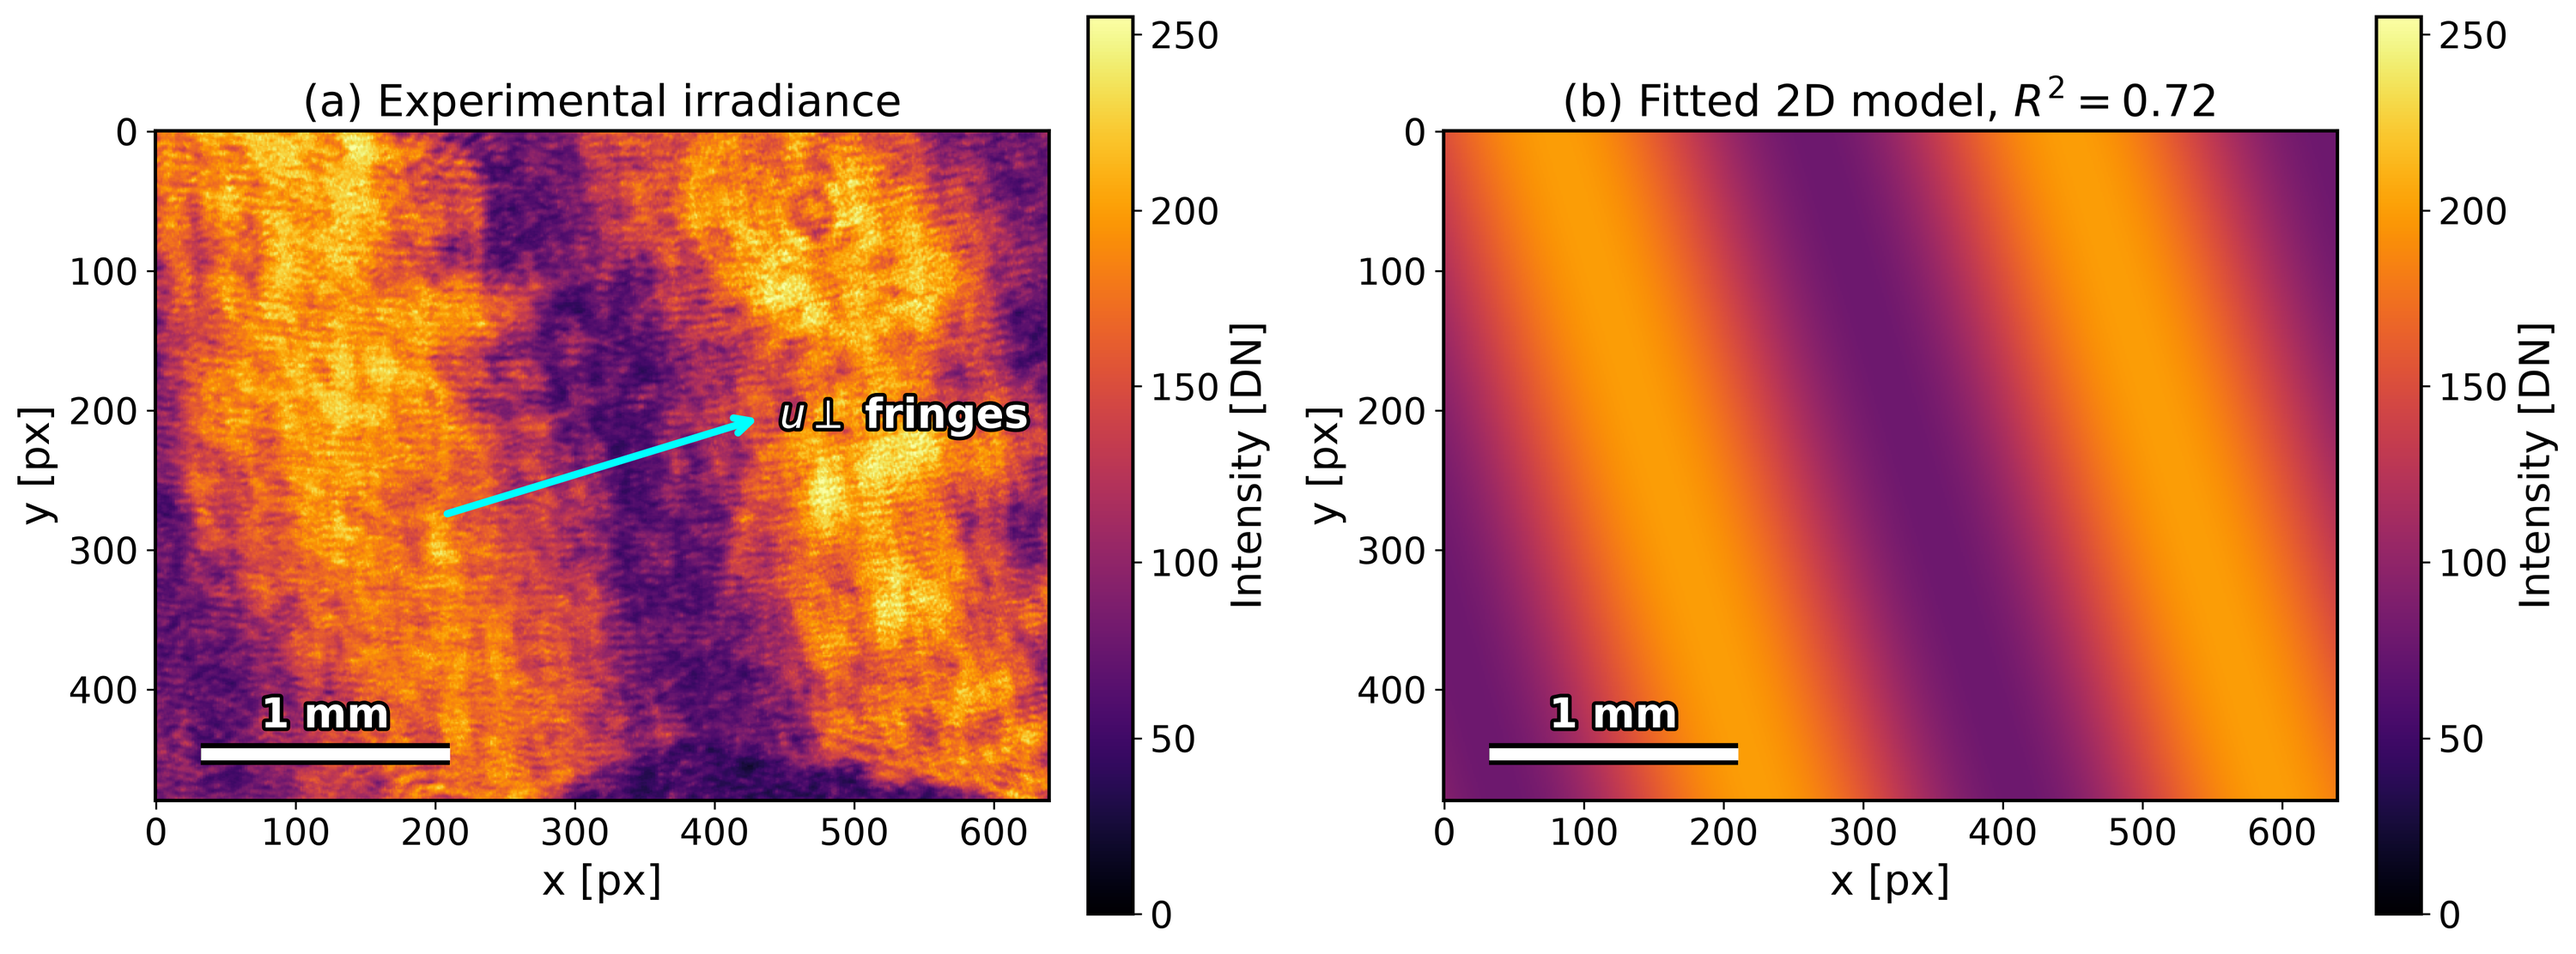
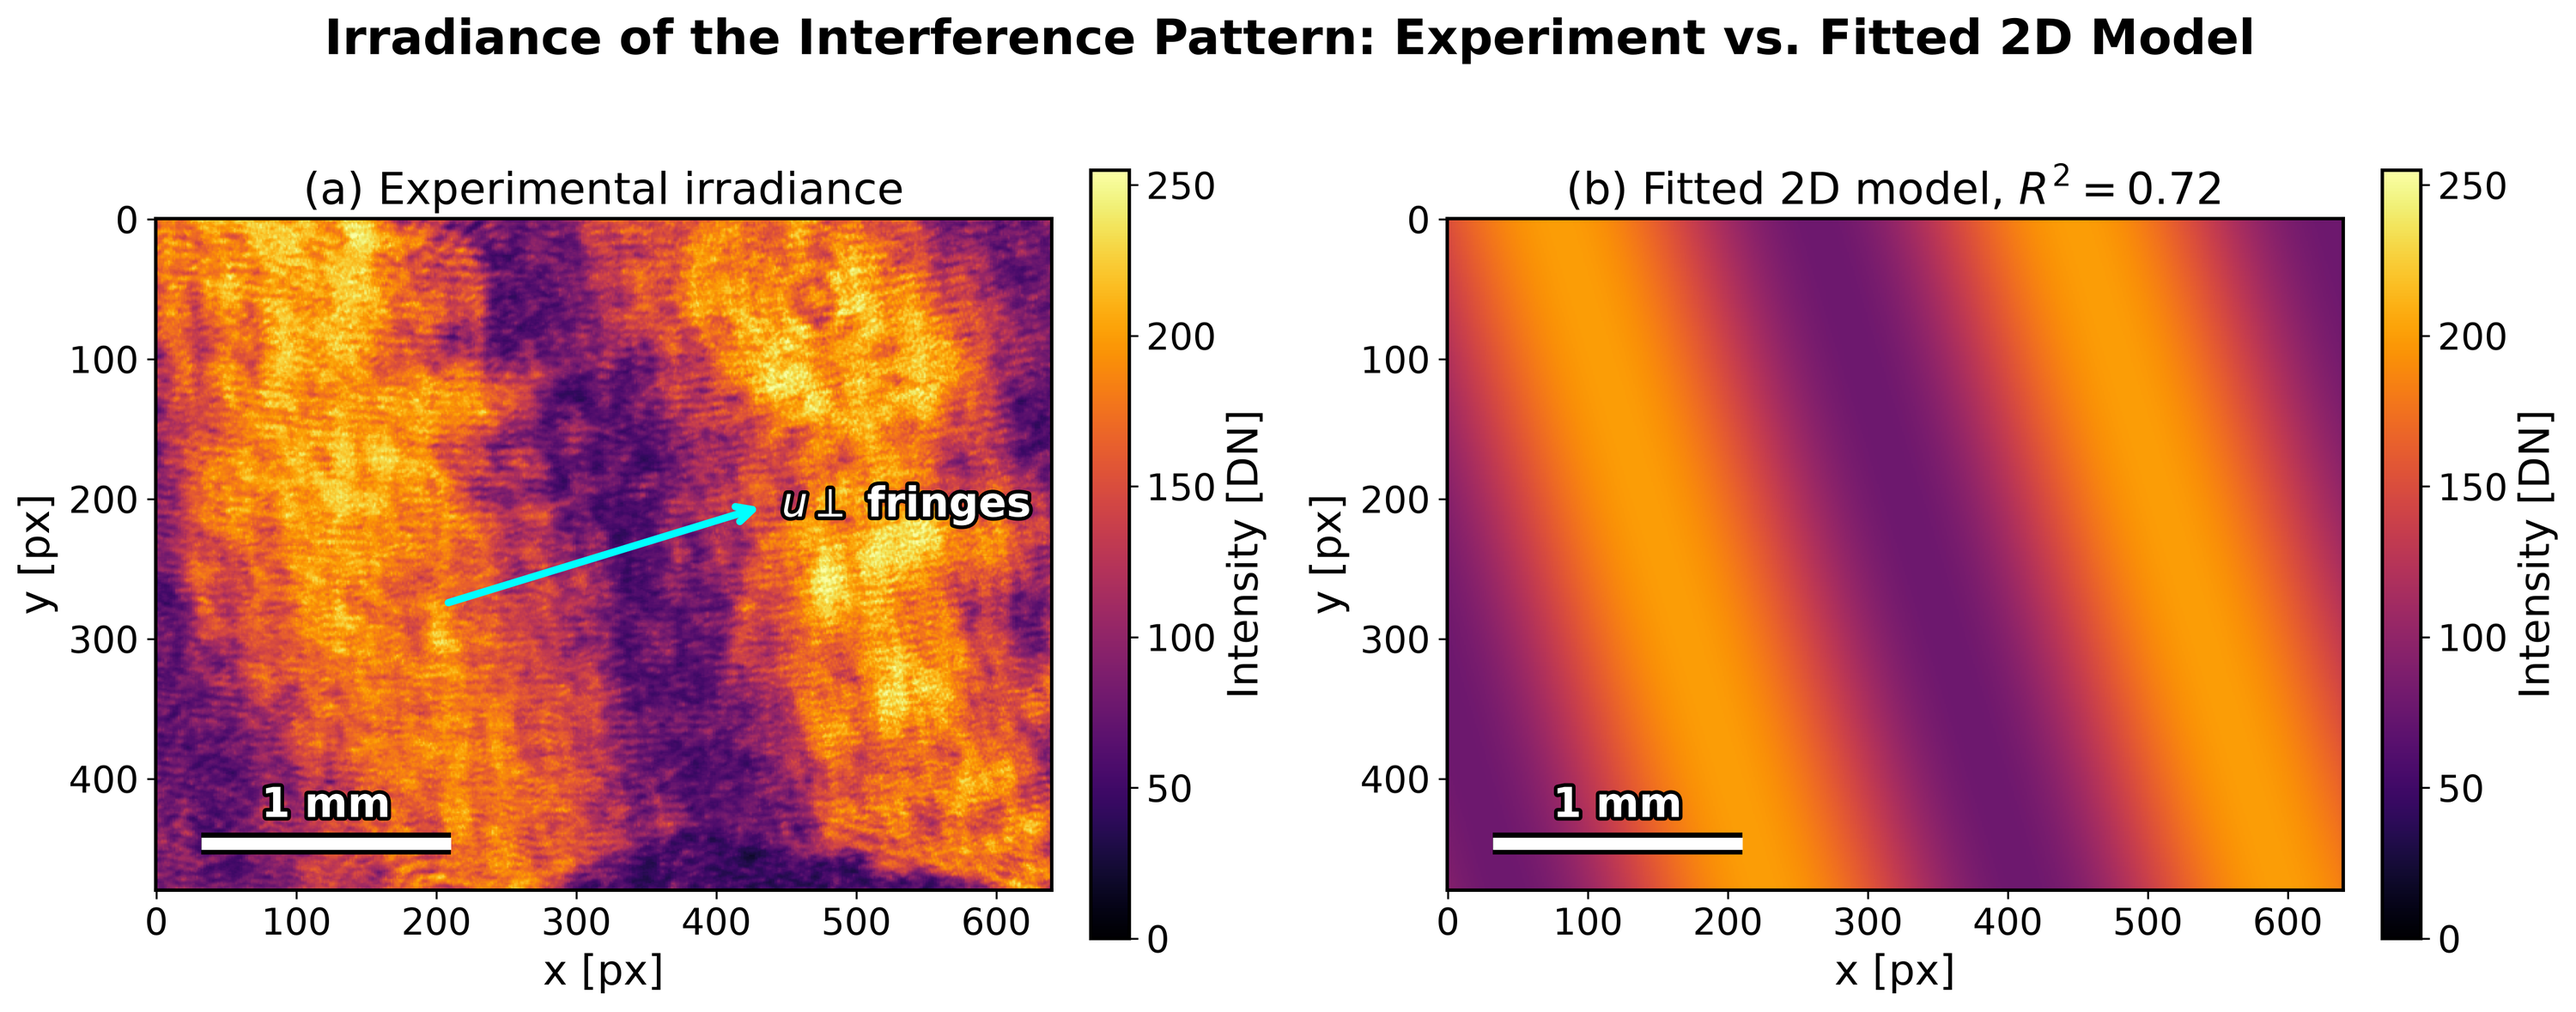
velocity measurement

diff --git a/chap_calibration/chap_calibration.tex b/chap_calibration/chap_calibration.tex
@@ -84,11 +84,12 @@ To characterize the displacement of the 3D-printed OpenFlexure Block Stage \cite
     \begin{center}
         \includegraphics[width=15cm]{images/openflexure_calibration.png}
     \end{center}
-    \caption{Openflexure calibration of step size.}
+    \caption{Openflexure calibration of step size. Blue: negative direction; red: positive direction.}
     \label{fig:openflexure_cal}
 \end{figure}
 
 \subsection{Definition of Plot Metrics}
+\label{sec:plot_metrics}
 \begin{itemize}
     \item \textbf{Nominal CAD ($12.2\text{ nm/step}$):} Here, \textbf{CAD} stands for \textit{Computer-Aided Design}. This dotted reference line represents the idealized theoretical step size derived from the Block Stage geometric design assuming zero backlash, rigid plastic links, exact M3 lead-screw pitch ($0.5\text{ mm/rev}$), $2:1$ external gear reduction, $4096$ half-steps/rev on the 28BYJ-48 motor, and the $5:1$ flexure lever reduction ($\approx 12.2\text{ nm/step}$) \cite{mengOpenFlexureBlockStage2020}.
     \item \textbf{Run Average ($s_{\text{avg}}$):} The global effective step size over an entire sweep, computed as $s_{\text{avg}} = \Delta x_{\text{total}} / N$, where $\Delta x_{\text{total}} = m\,\frac{\lambda}{2}$ ($316.4\text{ nm/fringe}$ at $\lambda = 632.8\text{ nm}$). Because $s_{\text{avg}}$ divides total displacement by total commanded steps, it includes any startup deadband, stiction, and deceleration losses.
@@ -124,3 +125,34 @@ To characterize the displacement of the 3D-printed OpenFlexure Block Stage \cite
 Both calibrated incremental slopes agree closely with the $12.2\text{ nm/step}$ nominal CAD value within experimental uncertainty (differing by only $3.3\%\text{--}4.3\%$) and agree with each other within $\sim 1.1\%$, confirming consistent bidirectional sensitivity once preloaded. The negative direction exhibits slightly larger run-to-run dispersion ($\pm 0.69\text{ nm/step}$ and wider $\pm 1\sigma$ error bars at $N = 1500$ and $2500$) than the positive direction ($\pm 0.28\text{ nm/step}$), reflecting minor mechanical asymmetry between pushing against and relaxing with the PLA flexure restoring force and gear mesh. Crucially, both regressions share a small negative $y$-intercept ($\approx -1.4\text{ to }-1.5\ \mu\text{m}$), capturing a nearly constant startup loss prior to rigid engagement. Because this startup offset is absorbed into the intercept rather than the slope, multi-step linear regression accurately recovers the true incremental stage sensitivity ($\sim 11.7\text{--}11.8\text{ nm/step}$) even when single-run averages are pulled down at shorter travels ($N = 1000$).
 
 Finally, \cref{fig:openflexure_cal}(b) compares the grouped mean values ($\pm 1\sigma$, $n = 5$) of $s_{\text{avg}}$ and $s_{\text{cruise}}$ across each step count and direction. As expected, $s_{\text{avg}}$ climbs steadily toward $\sim 11\text{--}11.5\text{ nm/step}$ for larger step counts ($1500\text{--}3000$ steps) as the initial compliance transient becomes proportionally smaller relative to total travel. Meanwhile, the $s_{\text{cruise}}$ averages consistently sit slightly above the $12.2\text{ nm/step}$ nominal line ($\sim 13\text{--}16\text{ nm/step}$, with individual runs peaking near $\sim 20.8\text{ nm/step}$); this occurs because taking the upper $40\%$ fastest intervals biases toward integer-frame rounding at smaller $\Delta f$ ($29.0\text{ fps}$) and captures brief elastic spring-forward bursts immediately following static friction breakaway, alongside minor tooth-to-tooth variability in the printed gear mesh.
+
+\subsection{Mirror Velocity from the Fringe Rate}
+\label{sec:openflexure_velocity}
+
+The same fringe traces give the velocity at which the stage was moving. Applying \cref{eq:velocity_fringe_rate} to every interval between consecutive peaks (or troughs), the fringe-crossing frequency is $f_{\text{fringe}} = f_s/\Delta f$, with $f_s = 29.0\text{ fps}$ and $\Delta f$ the number of frames of the interval, and the mirror speed is $v_{M2} = \frac{\lambda}{2}f_{\text{fringe}}$, with $\lambda/2 = 316.4\text{ nm}$. The sign of the velocity is taken from the commanded direction, since a single ROI trace cannot resolve it (\cref{sec:roi_fringe_velocity}). The mean velocity of a run is its displacement divided by the duration of the active window, and the cruise velocity is the median over the $40\%$ fastest intervals, as for $s_{\text{cruise}}$. The expected (theoretical) velocity is the commanded speed multiplied by the displacement per step of the stage, $v_{\text{expected}} = v_{\text{cmd}}\,s$. With the nominal CAD step $s = 12.2\text{ nm/step}$, obtained from the geometry of the Block Stage (\cref{sec:plot_metrics}), the commanded $55\text{ steps/s}$ give $v_{\text{expected}} = 55 \times 12.2\text{ nm} = 0.671\ \mu\text{m/s}$, which corresponds to a fringe rate of $2.1\text{ Hz}$. Using the calibrated slopes of the regression instead, $s_+ = 11.80\text{ nm/step}$ and $s_- = 11.67\text{ nm/step}$, gives $0.649\ \mu\text{m/s}$ and $0.642\ \mu\text{m/s}$.
+
+\begin{figure}[htbp]
+    \centering
+    \includegraphics[width=\textwidth]{images/openflexure_velocity.png}
+    \caption{Mirror velocity obtained from the fringe rate with \cref{eq:velocity_fringe_rate} compared with the theoretical velocity. a) Velocity of each fringe interval of the $1000$-step positive sweep of \cref{fig:single_run_1000}, with the error bars of $\pm 1$ frame of the interval, the run mean, the cruise median and the theoretical value of $0.671\ \mu\text{m/s}$; b) mean (squares) and cruise (circles) velocities ($\pm 1\sigma$, $n = 5$) of every direction and step count against the theoretical value, and the band (purple) of the values obtained with the calibrated slopes. Blue: negative direction; red: positive direction.}
+    \label{fig:velocity_1000}
+\end{figure}
+
+\cref{fig:velocity_1000}a shows the velocity of the $1000$-step sweep. The velocity rises from about $0.4\ \mu\text{m/s}$ during the acceleration ramp, stays around a cruise value of $0.57\ \mu\text{m/s}$ and drops during the deceleration, following the three phases described for the instantaneous step size. The error bars are the uncertainty of one frame in the length of each interval, $\delta v = v/\Delta f$, about $6\%$ in the plateau. The cruise value is below the theoretical $0.671\ \mu\text{m/s}$, which corresponds to the cruise step of $10.43\text{ nm/step}$ of this run, and the mean is lower still because it includes the ramps. \Cref{fig:velocity_1000}b compares all the sweeps with the theoretical velocity: the mean velocities lie below it and the cruise velocities above it, and the band obtained with the calibrated slopes falls between both.
+
+\begin{table}[htbp]
+\centering
+\caption{Mirror velocity measured from the fringe rate in the $50$ calibration sweeps ($55\text{ steps/s}$, $150\text{ steps/s}^2$, mean $\pm 1\sigma$ over runs), compared with the expected velocity obtained with the CAD step ($12.2\text{ nm/step}$) and with the calibrated slope of each direction.}
+\label{tab:openflexure_velocity}
+\begin{tabular}{lccccc}
+\hline
+Direction & Runs & $v_{\text{mean}}$ [$\mu$m/s] & $v_{\text{cruise}}$ [$\mu$m/s] & $v_{\text{CAD}}$ [$\mu$m/s] & $v_{\text{cal.}}$ [$\mu$m/s] \\
+\hline
+Positive & $25$ & $0.571 \pm 0.058$ & $0.746 \pm 0.092$ & $0.671$ & $0.649$ \\
+Negative & $25$ & $0.553 \pm 0.083$ & $0.813 \pm 0.150$ & $0.671$ & $0.642$ \\
+All      & $50$ & $0.562 \pm 0.071$ & $0.780 \pm 0.128$ & $0.671$ & $0.642$--$0.649$ \\
+\hline
+\end{tabular}
+\end{table}
+
+\Cref{tab:openflexure_velocity} summarizes the velocity of all sweeps, together with the expected velocity of each direction computed with its calibrated slope. The mean velocity, $0.562 \pm 0.071\ \mu\text{m/s}$, is lower than the expected one because it includes the acceleration ramp, the breakaway and the relaxation at the end of each sweep; consistently, it grows with the number of steps, from $0.526 \pm 0.102\ \mu\text{m/s}$ for $N = 1000$ to $0.586 \pm 0.041\ \mu\text{m/s}$ for $N = 3000$, as these transients weigh less. The cruise velocity, $0.780 \pm 0.128\ \mu\text{m/s}$, is above the expected value, which is the same bias already discussed for $s_{\text{cruise}}$: it selects the fastest intervals, and at $29\text{ fps}$ an error of one frame in an interval of about $16$ frames changes the velocity by $\sim 6\%$. The expected value computed with the calibrated slopes, $s_+ = 11.80\text{ nm/step}$ and $s_- = 11.67\text{ nm/step}$, is $0.649\ \mu\text{m/s}$ and $0.642\ \mu\text{m/s}$, between the mean and the cruise values. The negative direction shows the larger dispersion, in agreement with the mechanical asymmetry found in the regression. Finally, the fastest intervals correspond to fringe rates below about $4.5\text{ Hz}$, so even then there are more than $6$ frames per fringe and the velocities are far from the aliasing limit of the camera (\cref{sec:camera_velocity}).

diff --git a/chap_optical_detection/mirror_displacement.tex b/chap_optical_detection/mirror_displacement.tex
@@ -1,6 +1,11 @@
-
-\subsection{Relating Fringe Movement to Mirror Displacement and Velocity}
+\subsection{Fringe Movement to Mirror Displacement and Velocity}
 \label{sec:fringe_to_displacement_velocity}
+
+A detector only delivers intensity values; to obtain a physical quantity such as a displacement or a velocity, those values must be linked to the quantity of interest through a model. In interferometry this link is the fringe count: since Michelson used it to express the meter in wavelengths of light, the passage of fringes has been the way of converting a change of optical path into a length. Establishing this relation is what turns the interferometer and its detectors from an instrument that produces a pattern into an instrument that measures.
+
+For this work the theoretical background is relevant for several reasons. It fixes the displacement associated with each fringe, and     therefore the resolution that fringe counting can reach (\cref{eq:displacement_m2}). It relates the velocity of the mirror to the rate at which fringes cross the detector (\cref{eq:velocity_fringe_rate}), which is the quantity that limits how fast the mirror can move before the camera starts to lose fringes (\cref{sec:camera_velocity}). It also shows that a single intensity value cannot tell in which direction the mirror moves, since the sign of the motion is encoded in the direction of the fringe progression, which motivates the use of the camera and its spatial information.
+
+The following sections derive the relation between fringe movement, mirror displacement and velocity, and then present the method used to apply it to the frames of the camera by tracking the irradiance of a region of interest (\cref{sec:roi_fringe_velocity}), together with the graphical interface that implements it (\cref{sec:camera_gui}).
 
 Let $L_2(t)$ denote the optical path length from $\text{BS}$ to the movable mirror $M2$ at time $t$, and let $L_1$ denote the constant optical path length along the fixed path to $M1$. Because each beam traverses the distance between $\text{BS}$ and its corresponding mirror twice, the round-trip optical path difference in a medium of refractive index $n$ (with $n \approx 1$ in air) is
 \begin{equation}
